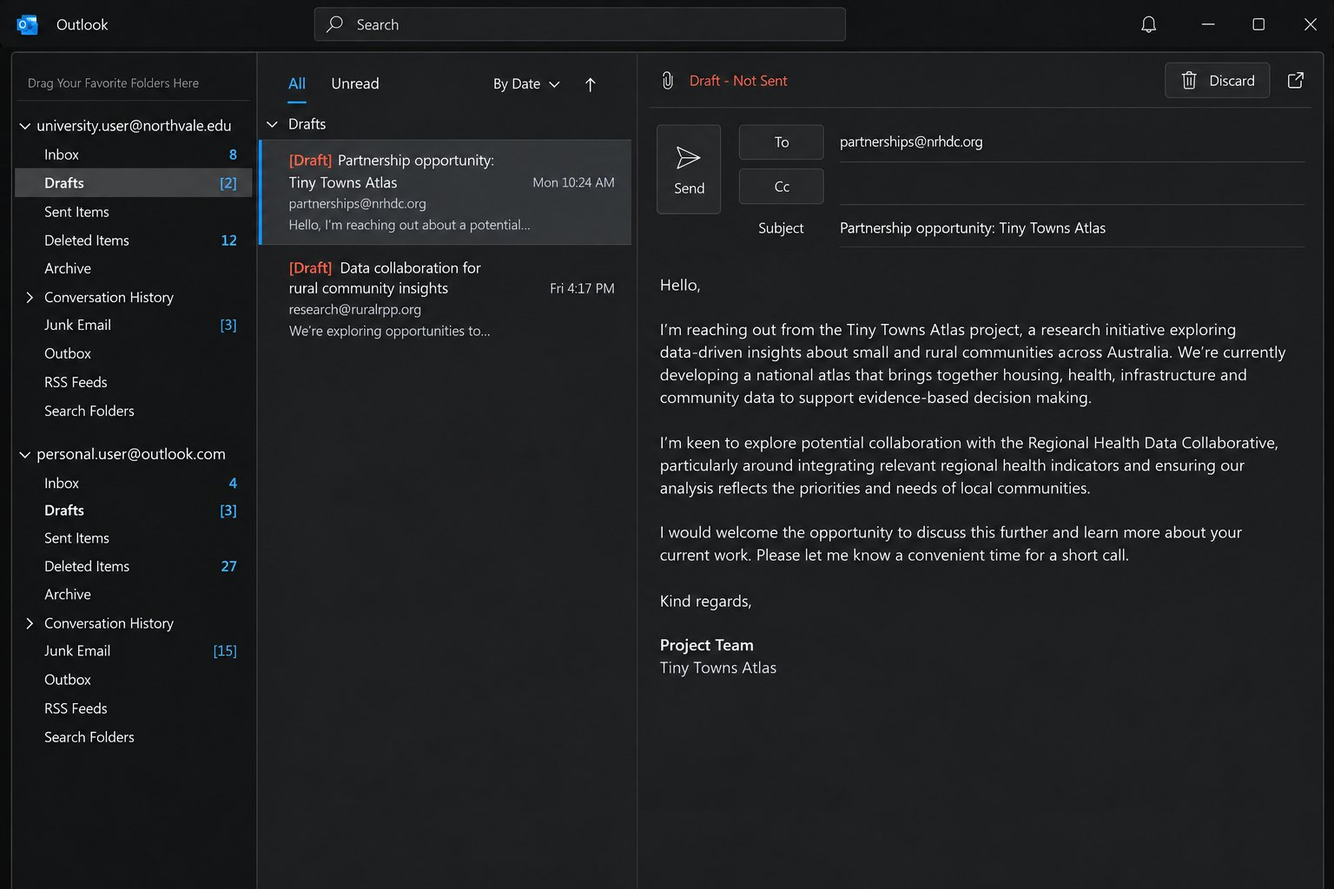
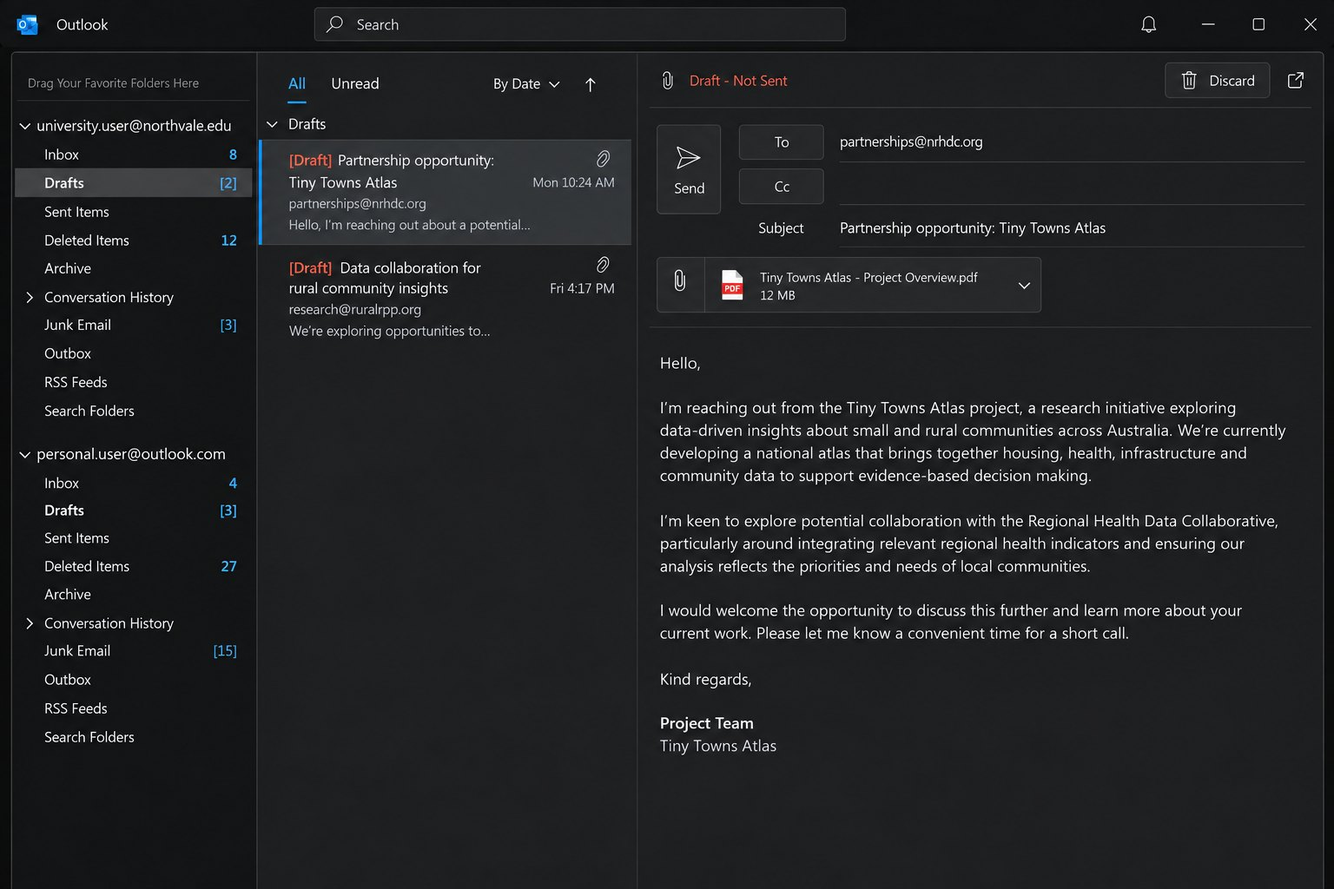
Website for ReplyPort 0.3.12 at US$29.99 (merge when the Store update is live)
- Price: US$29.99 one-time purchase on the homepage, landing pages and FAQ,
  with local prices shown in the Microsoft Store outside the US.
- 0.3.12 features: all ordinary mail folders after approval (existing
  mailboxes opt in with Include all mail folders), files attached to drafts,
  background first scans; limits and requirements updated to match.
- Docs: status panel 0.3.12 (reviewed 9 October 2026); folder coverage and
  attaching files to drafts marked Available; reply table, limitations,
  first run, troubleshooting and roadmap updated. Supersedes docs PR #5.
- Images: unedited Outlook drafts screenshot (with its attachment) and a
  0.3.12 Control Centre render with example mailboxes.

Changed region(s): [[0.5, 0.2812, 0.9688, 0.7812], [0.5, 0.8125, 0.5938, 0.8438], [0.6562, 0.2812, 0.6875, 0.3125]]

diff --git a/docs/index.html b/docs/index.html
@@ -70,8 +70,8 @@
       <aside class="docs-release" aria-labelledby="docs-release-title">
         <p class="eyebrow" id="docs-release-title">Documentation status</p>
         <dl class="docs-release__list">
-          <div><dt>Describes</dt><dd>ReplyPort 0.3.11 (Microsoft Store)</dd></div>
-          <div><dt>Last reviewed</dt><dd><time datetime="2026-10-06">6 October 2026</time></dd></div>
+          <div><dt>Describes</dt><dd>ReplyPort 0.3.12 (Microsoft Store)</dd></div>
+          <div><dt>Last reviewed</dt><dd><time datetime="2026-10-09">9 October 2026</time></dd></div>
           <div><dt>Stage</dt><dd>Early access</dd></div>
         </dl>
         <ul class="docs-release__legend" aria-label="Status labels">
@@ -135,7 +135,7 @@
 
         <p class="docs-toc__group">Reference</p>
         <a href="#limitations">Known limitations</a>
-        <a href="#roadmap">In development and planned</a>
+        <a href="#roadmap">Planned and under investigation</a>
         <a href="#troubleshooting">Troubleshooting</a>
         <a href="#errors">Result codes</a>
         <a href="#technical">Technical architecture</a>
@@ -168,17 +168,17 @@
           <table class="docs-table">
             <thead><tr><th scope="col">Feature</th><th scope="col">Status</th><th scope="col">Notes</th></tr></thead>
             <tbody>
-              <tr><th scope="row"><a href="#search">Search and read copied mail</a></th><td><span class="st st--yes">Available</span></td><td>Keyword search over copied Inbox and Sent Items mail.</td></tr>
-              <tr><th scope="row"><a href="#reply">Reply</a></th><td><span class="st st--yes">Available</span></td><td>Native Outlook reply to a copied Inbox message.</td></tr>
-              <tr><th scope="row"><a href="#reply">Reply All</a></th><td><span class="st st--yes">Available</span></td><td>Native Outlook reply-all to a copied Inbox message.</td></tr>
+              <tr><th scope="row"><a href="#search">Search and read copied mail</a></th><td><span class="st st--yes">Available</span></td><td>Keyword search over copied mail.</td></tr>
+              <tr><th scope="row"><a href="#reply">Reply</a></th><td><span class="st st--yes">Available</span></td><td>Native Outlook reply to a copied received message.</td></tr>
+              <tr><th scope="row"><a href="#reply">Reply All</a></th><td><span class="st st--yes">Available</span></td><td>Native Outlook reply-all to a copied received message.</td></tr>
               <tr><th scope="row"><a href="#new-message">New message</a></th><td><span class="st st--yes">Available</span></td><td>To and CC by exact address. No BCC.</td></tr>
               <tr><th scope="row"><a href="#forward">Forward</a></th><td><span class="st st--no">Not supported</span> <span class="st st--planned">Planned</span></td><td>No forward operation exists. A new message is not a substitute.</td></tr>
               <tr><th scope="row"><a href="#mailboxes">Several Outlook accounts</a></th><td><span class="st st--yes">Available</span></td><td>Each mailbox is kept separate.</td></tr>
-              <tr><th scope="row"><a href="#folders">Inbox and Sent Items</a></th><td><span class="st st--yes">Available</span></td><td>Default folders of each connected mailbox, without subfolders.</td></tr>
-              <tr><th scope="row"><a href="#folders">Other mail folders</a></th><td><span class="st st--no">Not supported</span> <span class="st st--planned">Planned</span></td><td>User-created folders, subfolders and Archive are not copied.</td></tr>
+              <tr><th scope="row"><a href="#folders">Inbox and Sent Items</a></th><td><span class="st st--yes">Available</span></td><td>Default folders of each connected mailbox.</td></tr>
+              <tr><th scope="row"><a href="#folders">Other mail folders</a></th><td><span class="st st--yes">Available</span></td><td>Your own folders, nested folders, Inbox subfolders and Archive, after you approve it for the mailbox.</td></tr>
               <tr><th scope="row"><a href="#signatures">Approved signature on drafts</a></th><td><span class="st st--yes">Available</span></td><td>One existing Outlook signature per mailbox.</td></tr>
               <tr><th scope="row"><a href="#attachment-mirroring">Copying attachments of copied mail</a></th><td><span class="st st--yes">Available</span></td><td>Optional, per mailbox, off by default.</td></tr>
-              <tr><th scope="row"><a href="#outgoing-attachments">Attaching files to drafts</a></th><td><span class="st st--dev">In development</span></td><td>Being validated in development builds. Not available in the current Store release.</td></tr>
+              <tr><th scope="row"><a href="#outgoing-attachments">Attaching files to drafts</a></th><td><span class="st st--yes">Available</span></td><td>Exact files chosen by the AI, verified before and after saving.</td></tr>
               <tr><th scope="row"><a href="#storage">Storage provider</a></th><td><span class="st st--yes">Dropbox</span></td><td>OneDrive is <span class="st st--planned">Planned</span>.</td></tr>
               <tr><th scope="row"><a href="#no-send">Sending email</a></th><td><span class="st st--no">Not supported</span></td><td>By design. There is no plan to add it.</td></tr>
             </tbody>
@@ -275,7 +275,7 @@
           </div>
           <div>
             <dt>&#8220;Reply and attach the report.&#8221;</dt>
-            <dd><span class="st st--dev">In development</span> In the current release a draft cannot include a file. See <a class="link" href="#outgoing-attachments">Attaching files to drafts</a>.</dd>
+            <dd>A reply draft with the exact file the AI chose attached. If more than one file could match, the AI asks you. See <a class="link" href="#outgoing-attachments">Attaching files to drafts</a>.</dd>
           </div>
         </dl>
       </section>
@@ -286,7 +286,7 @@
         <h3>How a search runs</h3>
         <ul>
           <li>Each search request covers exactly one mailbox. When you do not name a mailbox, the AI sends one request to each mailbox that has mail copying turned on and combines the answers. It should not ask you which mailbox to search.</li>
-          <li>ReplyPort matches keywords against the subject, sender, recipients and body text of the copied messages. Results can be narrowed by sender, conversation, Inbox or Sent Items, and date range. The AI can ask for messages matching all or any of up to 16 terms.</li>
+          <li>ReplyPort matches keywords against the subject, sender, recipients and body text of the copied messages. Results can be narrowed by sender, conversation, received or sent mail, and date range. The AI can ask for messages matching all or any of up to 16 terms.</li>
           <li>Search is keyword matching, not semantic search. If a search finds nothing useful, the AI is instructed to try once more with broader terms and then tell you the limits of what it found.</li>
           <li>Each request returns up to 50 results, ranked. A result contains a subject, a short snippet and a pointer to the full copy.</li>
           <li>Search does not use Outlook, so it works while Outlook is closed. It does need the PC to be on, ReplyPort to be running and Dropbox to be syncing.</li>
@@ -306,7 +306,7 @@
           <li>Your AI&#8217;s Dropbox connection can see it.</li>
         </ol>
         <p>A search does not trigger a fresh copy pass. If you ask about a message that arrived a moment ago, it may not be found yet. Ask again after a few minutes, or tell the AI that the message is very recent.</p>
-        <p class="note">Improving freshness for just-arrived mail is under investigation. See <a class="link" href="#roadmap">In development and planned</a>.</p>
+        <p class="note">Improving freshness for just-arrived mail is under investigation. See <a class="link" href="#roadmap">Planned and under investigation</a>.</p>
       </section>
 
       <section id="reply">
@@ -324,8 +324,8 @@
           <table class="docs-table">
             <thead><tr><th scope="col">Message</th><th scope="col">Reply / Reply All</th></tr></thead>
             <tbody>
-              <tr><td>Copied message from the Inbox</td><td><span class="st st--yes">Available</span></td></tr>
-              <tr><td>Copied message from Sent Items</td><td><span class="st st--no">Not supported</span> Used as context only.</td></tr>
+              <tr><td>Copied received message, from the Inbox or another copied folder</td><td><span class="st st--yes">Available</span></td></tr>
+              <tr><td>Copied message you sent</td><td><span class="st st--no">Not supported</span> Used as context only.</td></tr>
               <tr><td>Message in another folder, never copied</td><td><span class="st st--no">Not supported</span> See <a class="link" href="#folders">Folder coverage</a>.</td></tr>
               <tr><td>Message marked Personal, Private or Confidential, or protected by rights management or encryption</td><td><span class="st st--no">Not supported</span> Not copied.</td></tr>
               <tr><td>Message whose body exceeds 1 MiB of text</td><td><span class="st st--no">Not supported</span> Copied as incomplete; cannot be replied to.</td></tr>
@@ -400,7 +400,7 @@
         <div class="docs-table-wrap">
           <table class="docs-table docs-table--kv">
             <tbody>
-              <tr><th scope="row">Folders</th><td>Default Inbox and Sent Items of the mailbox. See <a class="link" href="#folders">Folder coverage</a>.</td></tr>
+              <tr><th scope="row">Folders</th><td>Default Inbox and Sent Items, and, if you approve it, every other ordinary mail folder of the mailbox. See <a class="link" href="#folders">Folder coverage</a>.</td></tr>
               <tr><th scope="row">Time window</th><td>Messages received or sent in the last 90 days. Copies older than that are deleted from the ReplyPort folder automatically. Outlook is not affected.</td></tr>
               <tr><th scope="row">Copied for each message</th><td>Subject, sender, recipients, date, conversation identifier, the plain-text body (up to 1 MiB), and attachment names, types and sizes.</td></tr>
               <tr><th scope="row">Not copied</th><td>HTML formatting and embedded images; attachment files, unless <a class="link" href="#attachment-mirroring">attachment copying</a> is on; Outlook internal identifiers.</td></tr>
@@ -414,21 +414,26 @@
 
       <section id="folders">
         <h2>Folder coverage</h2>
-        <p>The current release copies only the two default folders of each connected mailbox. If you file mail into other folders, the AI cannot see it unless it was copied before you moved it.</p>
+        <p>Every connected mailbox copies its default Inbox and Sent Items. You can also approve copying of every other ordinary mail folder of that mailbox, so mail you have filed can be searched, read and replied to. There is no per-folder selection.</p>
+        <ul>
+          <li><strong>New mailboxes.</strong> The mail copying approval in first run and in <em>Add mailbox</em> covers the whole mailbox: Inbox, Sent Items and its other ordinary mail folders.</li>
+          <li><strong>Mailboxes connected before 0.3.12.</strong> Nothing widens on update. Tick <strong>Include all mail folders</strong> on the mailbox card in Control Centre and confirm. Unticking it returns to Inbox and Sent Items; mail already copied from other folders stays until it ages out of the 90-day window.</li>
+          <li><strong>Progress.</strong> The mailbox card shows how many recent messages are still being copied from other folders, then <em>up to date</em>. Until then, search reports that coverage is incomplete.</li>
+        </ul>
         <div class="docs-table-wrap">
           <table class="docs-table">
-            <thead><tr><th scope="col">Folder</th><th scope="col">Current release</th></tr></thead>
+            <thead><tr><th scope="col">Folder</th><th scope="col">Copied</th></tr></thead>
             <tbody>
               <tr><td>Inbox (default)</td><td><span class="st st--yes">Copied</span></td></tr>
               <tr><td>Sent Items (default)</td><td><span class="st st--yes">Copied</span></td></tr>
-              <tr><td>Subfolders of Inbox or Sent Items</td><td><span class="st st--no">Not copied</span></td></tr>
-              <tr><td>Your own folders, nested folders, Archive</td><td><span class="st st--no">Not copied</span> <span class="st st--planned">Planned</span></td></tr>
+              <tr><td>Subfolders of Inbox or Sent Items</td><td><span class="st st--yes">Copied</span> when all mail folders are approved</td></tr>
+              <tr><td>Your own folders, nested folders, Archive in the same mailbox</td><td><span class="st st--yes">Copied</span> when all mail folders are approved</td></tr>
               <tr><td>Drafts, Outbox, Deleted Items, Junk Email</td><td><span class="st st--no">Not copied</span></td></tr>
               <tr><td>Shared mailboxes not connected as their own account, PST files, Online Archive</td><td><span class="st st--no">Not copied</span></td></tr>
             </tbody>
           </table>
         </div>
-        <p class="docs-callout docs-callout--quiet"><span class="st st--planned">Planned</span> Copying all ordinary mail folders in the connected mailbox, including your own folders, nested folders and Archive, with reply support for received messages in them. Deleted Items, Drafts, Outbox, Junk Email, and Outlook&#8217;s sync and service folders would stay excluded, as would shared stores, PST files and Online Archive. New setups would be able to approve this coverage during setup. Existing installations would keep Inbox and Sent Items until you choose to widen coverage. This is not in the current release.</p>
+        <p class="docs-callout docs-callout--quiet">Folders are recognised by their identity in Outlook, never by name. Outlook&#8217;s sync, service, search and hidden folders are never copied. A received message keeps its identity wherever it is filed, so moving it between copied folders does not create a second copy.</p>
       </section>
 
       <!-- ================= Attachments ================= -->
@@ -436,12 +441,12 @@
       <section id="attachment-mirroring">
         <p class="eyebrow">Attachments</p>
         <h2>Attachments on copied mail <span class="st st--yes">Available</span></h2>
-        <p>ReplyPort has two separate attachment features. This one controls whether files attached to your copied email are also copied to Dropbox so your AI can open them. The other, <a class="link" href="#outgoing-attachments">attaching files to drafts</a>, is unrelated and is not in the current release.</p>
+        <p>ReplyPort has two separate attachment features. This one controls whether files attached to your copied email are also copied to Dropbox so your AI can open them. The other, <a class="link" href="#outgoing-attachments">attaching files to drafts</a>, is a separate feature with its own checks.</p>
         <p>In Control Centre and first run this setting is labelled <strong>Include email attachments</strong>. It is a storage and privacy choice:</p>
         <ul>
           <li>Off by default, set per mailbox, and available only when mail copying is on for that mailbox.</li>
           <li>Only you can turn it on, on the PC. No file in Dropbox, AI request or email can turn it on.</li>
-          <li>It applies to attachments of copied messages in both Inbox and Sent Items, within the same 90-day window.</li>
+          <li>It applies to attachments of every copied message, received or sent, within the same 90-day window.</li>
           <li>Turning it on processes already-copied mail in the background, newest first, a few messages per pass. This can take a while.</li>
           <li>Turning it off stops copying and deletes the attachment copies ReplyPort made. Mail copying and Outlook are unaffected.</li>
           <li>Each copied message has an attachment list in the ReplyPort folder. Every attachment is listed as copied, with its file, size and hash, or skipped, with a fixed reason such as <code>TYPE_NOT_SUPPORTED</code> or <code>TOO_LARGE</code>.</li>
@@ -451,12 +456,10 @@
       </section>
 
       <section id="outgoing-attachments">
-        <h2>Attaching files to drafts <span class="st st--dev">In development</span></h2>
-        <p class="docs-callout docs-callout--dev"><strong>Not available in the current Store release.</strong> Outgoing draft attachments are being validated in development builds. A draft created by the current Microsoft Store version cannot include a file. A draft request that tries to include one is rejected. If your AI says it attached a file, check the draft in Outlook.</p>
-        <p>This section describes the intended behaviour, so you know what to expect. Details may change before release.</p>
-        <h3>Intended experience</h3>
-        <p>&#8220;Reply and attach the report&#8221; should work like a mail connector in any AI product. If the AI can identify the exact file, from Dropbox, another connected source, a file it has just produced, or an attachment ReplyPort already copied, it includes that file in the Reply, Reply All or new-message draft. If two files could match, the AI asks you which one. ReplyPort never chooses or guesses a file. There is no separate attachment picker or extra confirmation; the draft in Outlook is where you review it.</p>
-        <h3>How it is designed to work</h3>
+        <h2>Attaching files to drafts <span class="st st--yes">Available</span></h2>
+        <h3>What to expect</h3>
+        <p>&#8220;Reply and attach the report&#8221; works like a mail connector in any AI product. If the AI can identify the exact file, from Dropbox, another connected source, a file it has just produced, or an attachment ReplyPort already copied, it includes that file in the Reply, Reply All or new-message draft. If two files could match, the AI asks you which one. ReplyPort never chooses or guesses a file. There is no separate attachment picker or extra confirmation; the draft in Outlook is where you review it.</p>
+        <h3>How it works</h3>
         <ol class="docs-steps">
           <li>The AI copies the exact chosen file into a staging folder belonging to that one request and mailbox.</li>
           <li>The draft request lists each file by name, size and SHA-256 hash.</li>
@@ -488,7 +491,7 @@
         <h3>Limits</h3>
         <div class="docs-table-wrap">
           <table class="docs-table">
-            <thead><tr><th scope="col">Limit</th><th scope="col">Attachment copying <span class="st st--yes">Available</span></th><th scope="col">Attaching to drafts <span class="st st--dev">In development</span></th></tr></thead>
+            <thead><tr><th scope="col">Limit</th><th scope="col">Attachment copying <span class="st st--yes">Available</span></th><th scope="col">Attaching to drafts <span class="st st--yes">Available</span></th></tr></thead>
             <tbody>
               <tr><td>Per file</td><td>25 MiB</td><td>25 MiB</td></tr>
               <tr><td>Files</td><td>20 per message</td><td>20 per draft</td></tr>
@@ -607,8 +610,8 @@
           <li><strong>Accounts.</strong> Choose which Outlook accounts to connect.</li>
           <li><strong>Signatures.</strong> Choose one existing Outlook signature per account.</li>
           <li><strong>Review and configure.</strong> ReplyPort binds each account and checks the result in Outlook before finishing.</li>
-          <li><strong>Mail copying.</strong> A separate approval for each mailbox, with the option to include email attachments. Turn it on here for every mailbox you want the AI to search; Control Centre does not currently offer this choice again later.</li>
-          <li><strong>First scan.</strong> Start copying the last 90 days of Inbox and Sent Items. Scans run one mailbox at a time and can take a while.</li>
+          <li><strong>Mail copying.</strong> A separate approval for each mailbox, covering its Inbox, Sent Items and other ordinary mail folders, with the option to include email attachments. Turn it on here for every mailbox you want the AI to search; Control Centre does not currently offer this choice again later.</li>
+          <li><strong>First scan.</strong> ReplyPort copies the last 90 days of approved mail in the background, one mailbox at a time. First run does not wait for it; search reports incomplete coverage until a mailbox&#8217;s first scan has finished.</li>
         </ol>
         <p>Then connect your AI using the <a class="link" href="../setup/">Setup guide</a>: give the AI access to <code>/ReplyPort</code>, copy the setup prompt from Control Centre, and paste it into the AI. The AI walks you through saving permanent ReplyPort instructions and runs one harmless test search. Setup creates no drafts.</p>
         <p class="note">Searching existing mail needs the first scan to have finished. Creating new messages does not.</p>
@@ -711,10 +714,9 @@
         <h2>Known limitations</h2>
         <p>Limitations of the current release that affect ordinary use:</p>
         <ul>
-          <li>Only the default Inbox and Sent Items are copied. Mail filed into other folders is not searchable and cannot be replied to unless it was copied first.</li>
-          <li>Drafts cannot include files. Attaching files is <span class="st st--dev">In development</span>.</li>
+          <li>Mailboxes connected before 0.3.12 copy only Inbox and Sent Items until you tick <strong>Include all mail folders</strong> in Control Centre. Shared mailboxes, PST files and Online Archive are never copied.</li>
           <li>There is no Forward.</li>
-          <li>Replies are possible only to copied Inbox messages, not to Sent Items.</li>
+          <li>Replies are possible only to copied received messages, not to messages you sent.</li>
           <li>One Reply and one Reply All draft per version of a message. A second request for the same message is refused as a duplicate.</li>
           <li>The AI writes plain text. Draft text has no bold, lists, tables or embedded images; the signature keeps its own formatting.</li>
           <li>The AI cannot add or remove recipients on a reply; edit the draft in Outlook.</li>
@@ -732,18 +734,10 @@
       </section>
 
       <section id="roadmap">
-        <h2>In development and planned</h2>
+        <h2>Planned and under investigation</h2>
         <p>Nothing in this section is available in the current release. Items move to the main documentation when they ship. There are no committed dates.</p>
-        <h3><span class="st st--dev">In development</span> Being validated in development builds</h3>
-        <ul>
-          <li><strong>Attaching files to drafts</strong> for Reply, Reply All and new messages. Not available in the current Store release. Intended behaviour is described in <a class="link" href="#outgoing-attachments">Attaching files to drafts</a>.</li>
-          <li><strong>First scans in the background</strong>, independent of finishing first run, with search results reporting incomplete coverage until a mailbox&#8217;s first scan has finished.</li>
-          <li><strong>Simpler Dropbox onboarding</strong> and clearer explanations of attachment formats and limits during setup.</li>
-          <li><strong>Faster draft pickup</strong> once a request reaches the PC.</li>
-        </ul>
         <h3><span class="st st--planned">Planned</span> Accepted direction</h3>
         <ul>
-          <li><strong>All ordinary mail folders</strong> in the connected mailbox, including your own and nested folders and Archive, with reply support. New setups would be able to approve this during setup; existing installations would keep Inbox and Sent Items until you choose to widen coverage. See <a class="link" href="#folders">Folder coverage</a>.</li>
           <li><strong>Native Forward drafts.</strong></li>
           <li><strong>OneDrive</strong> as a storage option alongside Dropbox.</li>
           <li><strong>Clearer tray Exit</strong>, so it is unambiguous whether ReplyPort as a whole has closed.</li>
@@ -769,7 +763,7 @@
           <div><dt>ReplyPort is not running after a Store update</dt>
           <dd>Open ReplyPort from the Start menu. It restarts the background process and opens Control Centre.</dd></div>
           <div><dt>A message you know exists is not found</dt>
-          <dd>Check that it is in the Inbox or Sent Items, within 90 days, not marked Personal, Private or Confidential, and not encrypted; and that the mailbox&#8217;s first scan has finished. Very recent mail may need a few minutes.</dd></div>
+          <dd>Check that it is in a copied folder (Inbox and Sent Items, or any ordinary folder if <strong>Include all mail folders</strong> is on), within 90 days, not marked Personal, Private or Confidential, and not encrypted; and that the mailbox&#8217;s first scan has finished. Very recent mail may need a few minutes.</dd></div>
           <div><dt>Drafts are refused with <code>SIGNATURE_APPROVAL_REQUIRED</code></dt>
           <dd>The approved signature for that mailbox was edited, renamed or deleted in Outlook. If you can undo that change exactly, drafts resume. Otherwise report it through <a class="link" href="https://github.com/replyport/feedback/issues/new/choose" rel="noopener">Feedback</a>: Control Centre does not yet have a way to approve a changed signature.</dd></div>
           <div><dt>A reply is refused with <code>DUPLICATE_REQUEST</code></dt>
@@ -814,7 +808,7 @@
             </tbody>
           </table>
         </div>
-        <p class="note">Additional codes beginning <code>ATTACHMENT_</code> belong to attachment features. The codes for attaching files to drafts are <span class="st st--dev">In development</span>.</p>
+        <p class="note">Additional codes beginning <code>ATTACHMENT_</code> belong to attachment features. They are listed in <code>PROTOCOL.md</code> in your ReplyPort folder.</p>
       </section>
 
       <section id="technical">

diff --git a/index.html b/index.html
@@ -90,7 +90,7 @@
             <a class="btn" href="https://apps.microsoft.com/detail/9PPGN3H4QGJJ">Get it from Microsoft Store</a>
             <a class="btn btn--secondary" href="#film">Watch the 38-second film</a>
           </div>
-          <p class="meta">Early access &#183; One-time purchase &#183; Price shown in the Microsoft Store</p>
+          <p class="meta">Early access &#183; US$29.99 one-time purchase</p>
           <ul class="proof" role="list">
             <li>Works with the AI you already use</li>
             <li>Real Outlook drafts</li>
@@ -103,7 +103,7 @@
         <figure class="shot shot--hero">
           <picture class="shot__frame">
             <source type="image/webp" srcset="assets/screens/outlook-drafts-960.webp 960w, assets/screens/outlook-drafts.webp 1536w" sizes="(max-width: 980px) 100vw, 680px">
-            <img src="assets/screens/outlook-drafts.jpg" srcset="assets/screens/outlook-drafts-960.jpg 960w, assets/screens/outlook-drafts.jpg 1536w" sizes="(max-width: 980px) 100vw, 680px" width="1536" height="1024" alt="Outlook Classic in dark mode with two accounts, a university account and a personal account, each with its own Drafts folder. An unsent reply draft is open in the university account, marked Draft - Not Sent, with the Send button still waiting.">
+            <img src="assets/screens/outlook-drafts.jpg" srcset="assets/screens/outlook-drafts-960.jpg 960w, assets/screens/outlook-drafts.jpg 1536w" sizes="(max-width: 980px) 100vw, 680px" width="1536" height="1024" alt="Outlook Classic in dark mode with two accounts, a university account and a personal account, each with its own Drafts folder. An unsent draft with a PDF attached is open in the university account, marked Draft - Not Sent, with the Send button still waiting.">
           </picture>
           <figcaption class="shot__cap">
             <span class="shot__claim">Real drafts. Correct mailbox. You press Send.</span>
@@ -341,7 +341,7 @@
             <div class="flow__place">
               <h3>In your Dropbox</h3>
               <ul>
-                <li>Copies of the last 90 days of Inbox and Sent Items, only from the mailboxes you approve. Mail copying is off until you turn it on.</li>
+                <li>Copies of the last 90 days of mail, only from the mailboxes and folders you approve. Mail copying is off until you turn it on.</li>
                 <li>Attachments only if you turn them on for that mailbox.</li>
                 <li>Search and draft requests passing between your AI and the PC.</li>
                 <li>Dropbox&#8217;s terms and privacy policy apply.</li>
@@ -360,10 +360,10 @@
         </div>
         <figure class="shot shot--light">
           <picture class="shot__frame">
-            <source type="image/webp" srcset="assets/screens/control-centre-800.webp 800w, assets/screens/control-centre.webp 1293w" sizes="(max-width: 980px) 100vw, 520px">
-            <img src="assets/screens/control-centre-800.png" srcset="assets/screens/control-centre-800.png 800w, assets/screens/control-centre.png 1293w" sizes="(max-width: 980px) 100vw, 520px" width="1293" height="1459" loading="lazy" alt="ReplyPort Control Centre showing ReplyPort running, Outlook Classic connected and storage connected, with two mailbox cards. Each card shows mail copying enabled, pending drafts and searches, and an Include email attachments setting.">
+            <source type="image/webp" srcset="assets/screens/control-centre-800.webp 800w, assets/screens/control-centre.webp 1256w" sizes="(max-width: 980px) 100vw, 520px">
+            <img src="assets/screens/control-centre-800.png" srcset="assets/screens/control-centre-800.png 800w, assets/screens/control-centre.png 1256w" sizes="(max-width: 980px) 100vw, 520px" width="1256" height="1425" loading="lazy" alt="ReplyPort Control Centre showing ReplyPort running, Outlook Classic connected and storage connected, with two example mailbox cards, University and Personal. Each card shows mail copying enabled, Include all mail folders and Include email attachments turned on, and both up to date.">
           </picture>
-          <figcaption class="shot__note">Control Centre shows each connected mailbox, whether its mail is copied and whether attachments are included.</figcaption>
+          <figcaption class="shot__note">Control Centre shows each connected mailbox, which folders are copied and whether attachments are included.</figcaption>
         </figure>
       </div>
     </div>
@@ -393,9 +393,9 @@
           <h3 class="usecase__title">Accounts and mail</h3>
           <ul class="requirements-list" role="list">
             <li>Tested with Microsoft 365 work or school accounts and personal Outlook.com accounts in Outlook Classic. IMAP, POP and on-premises Exchange accounts have not been verified.</li>
-            <li>Searches cover the last 90 days of each mailbox&#8217;s Inbox and Sent Items. Other folders are not copied in the current release.</li>
+            <li>Searches cover the last 90 days. With your approval, ReplyPort copies all ordinary mail folders of a mailbox; Deleted Items, Junk Email, Drafts, Outbox, shared mailboxes, PST files and Online Archive are not copied.</li>
             <li>Shared or delegated mailboxes are not included unless they are set up as their own account.</li>
-            <li>Replies, Reply All and new messages. No Forward, and drafts cannot yet include file attachments.</li>
+            <li>Replies, Reply All and new messages, with files your AI chooses attached. No Forward.</li>
           </ul>
         </div>
         <div class="col col--pad fit-col fit-col--no">
@@ -411,7 +411,7 @@
       <div class="buy">
         <div class="buy__text">
           <p>ReplyPort does not need an Outlook add-in, and you do not authorise it through Microsoft Graph. Your organisation&#8217;s device, storage and AI-use policies still apply.</p>
-          <p class="meta">Early access &#183; One-time purchase &#183; Updates through the Microsoft Store</p>
+          <p class="meta">Early access &#183; US$29.99 one-time purchase &#183; Local prices shown in the Microsoft Store &#183; Updates through the Microsoft Store</p>
         </div>
         <div class="buy__actions">
           <a class="btn" href="https://apps.microsoft.com/detail/9PPGN3H4QGJJ">Install from Microsoft Store</a>
@@ -464,7 +464,7 @@
           </details>
           <details>
             <summary>What does it cost?</summary>
-            <p>ReplyPort is a one-time purchase in the Microsoft Store. The Store shows the current price in your local currency.</p>
+            <p>US$29.99 as a one-time purchase in the Microsoft Store during early access. Outside the United States, the Store shows the price in your local currency.</p>
           </details>
           <details>
             <summary>Where can I read the details?</summary>

diff --git a/ai-multiple-outlook-accounts/index.html b/ai-multiple-outlook-accounts/index.html
@@ -83,7 +83,7 @@
           <li>ReplyPort has no send function. You send from Outlook.</li>
         </ul>
         <p><a class="btn" href="https://apps.microsoft.com/detail/9PPGN3H4QGJJ">Get it from Microsoft Store</a></p>
-        <p class="meta">Windows 11 &#183; Outlook Classic &#183; One-time purchase</p>
+        <p class="meta">Windows 11 &#183; Outlook Classic &#183; US$29.99 one-time purchase</p>
       </aside>
     </div>
   </header>
@@ -163,6 +163,7 @@
         <ul>
           <li>You choose which Outlook accounts to connect, and approve mail copying separately for each one. Mail copying is off until you approve it.</li>
           <li>Accounts added to Outlook later can be connected with <strong>Add mailbox</strong> in Control Centre.</li>
+          <li>Copying of all ordinary mail folders, beyond Inbox and Sent Items, is part of the approval for new accounts. Accounts connected before version 0.3.12 can add it with <strong>Include all mail folders</strong> in Control Centre.</li>
           <li>Copying of email attachments is a separate setting for each account, off by default.</li>
           <li>Any account can be restricted to replies only, so your AI cannot start new messages from it.</li>
         </ul>
@@ -171,7 +172,7 @@
       <section id="limits">
         <h2>Limits to know</h2>
         <ul>
-          <li>Searches cover the last 90 days of each account&#8217;s Inbox and Sent Items. Other folders are not copied in the current release.</li>
+          <li>Searches cover the last 90 days of the folders you approve. Deleted Items, Junk Email, Drafts, Outbox, shared mailboxes, PST files and Online Archive are not copied.</li>
           <li>Tested with Microsoft 365 work or school accounts and personal Outlook.com accounts in Outlook Classic. IMAP, POP and on-premises Exchange accounts have not been verified.</li>
           <li>Shared or delegated mailboxes are not included unless they are set up as their own account.</li>
           <li>Outlook Classic must be open for drafts to be created. New Outlook is not supported.</li>

diff --git a/ai-for-outlook-classic/index.html b/ai-for-outlook-classic/index.html
@@ -83,7 +83,7 @@
           <li>ReplyPort has no send function.</li>
         </ul>
         <p><a class="btn" href="https://apps.microsoft.com/detail/9PPGN3H4QGJJ">Get it from Microsoft Store</a></p>
-        <p class="meta">Windows 11 &#183; One-time purchase</p>
+        <p class="meta">Windows 11 &#183; US$29.99 one-time purchase</p>
       </aside>
     </div>
   </header>
@@ -128,6 +128,7 @@
           <li><strong>Summarise and triage:</strong> &#8220;What needs my attention?&#8221; or &#8220;What changed on this project this week?&#8221;</li>
           <li><strong>Reply and reply all</strong> to a message, using Outlook&#8217;s own reply in the account that received it.</li>
           <li><strong>Write new messages</strong> from the account you name, to exact addresses.</li>
+          <li><strong>Attach exact files to drafts</strong>, such as a PDF or an Office document. ReplyPort checks each file and confirms the attachment in Outlook.</li>
           <li><strong>Prepare several drafts in one request</strong>, each reported separately.</li>
         </ul>
         <figure class="shot">
@@ -147,8 +148,7 @@
         <ul>
           <li>Send email. ReplyPort has no send function of any kind; you send from Outlook.</li>
           <li>Forward messages. Forward is planned but not available.</li>
-          <li>Attach files to drafts in the current release. This is in development.</li>
-          <li>Search folders other than each account&#8217;s Inbox and Sent Items, or mail older than 90 days.</li>
+                    <li>Search mail older than 90 days, or Deleted Items, Junk Email, shared mailboxes, PST files and Online Archive.</li>
           <li>Format draft text. Your AI writes plain text; the account&#8217;s signature keeps its own formatting.</li>
         </ul>
         <p>The <a class="link" href="../docs/#status">feature status table</a> in the documentation lists what the current release supports.</p>

diff --git a/README.md b/README.md
@@ -107,9 +107,8 @@ Value hierarchy, in order:
 
 Homepage headline: "One AI conversation across your Outlook accounts." The first
 proof is the dark-mode Outlook screenshot (`assets/screens/outlook-drafts.*`).
-That web copy has the outgoing-attachment row and paperclip markers removed,
-because attaching files to drafts is not in the current Store release; switch
-back to the original Store screenshot once that feature ships.
+Since 0.3.12 (attaching files to drafts is available) the web copy is the
+unedited Store screenshot, including its PDF attachment.
 
 Safety language supports the differentiation rather than leading it. Name native
 integrations (Claude for Outlook, ChatGPT's Outlook apps, Copilot) only fairly:
